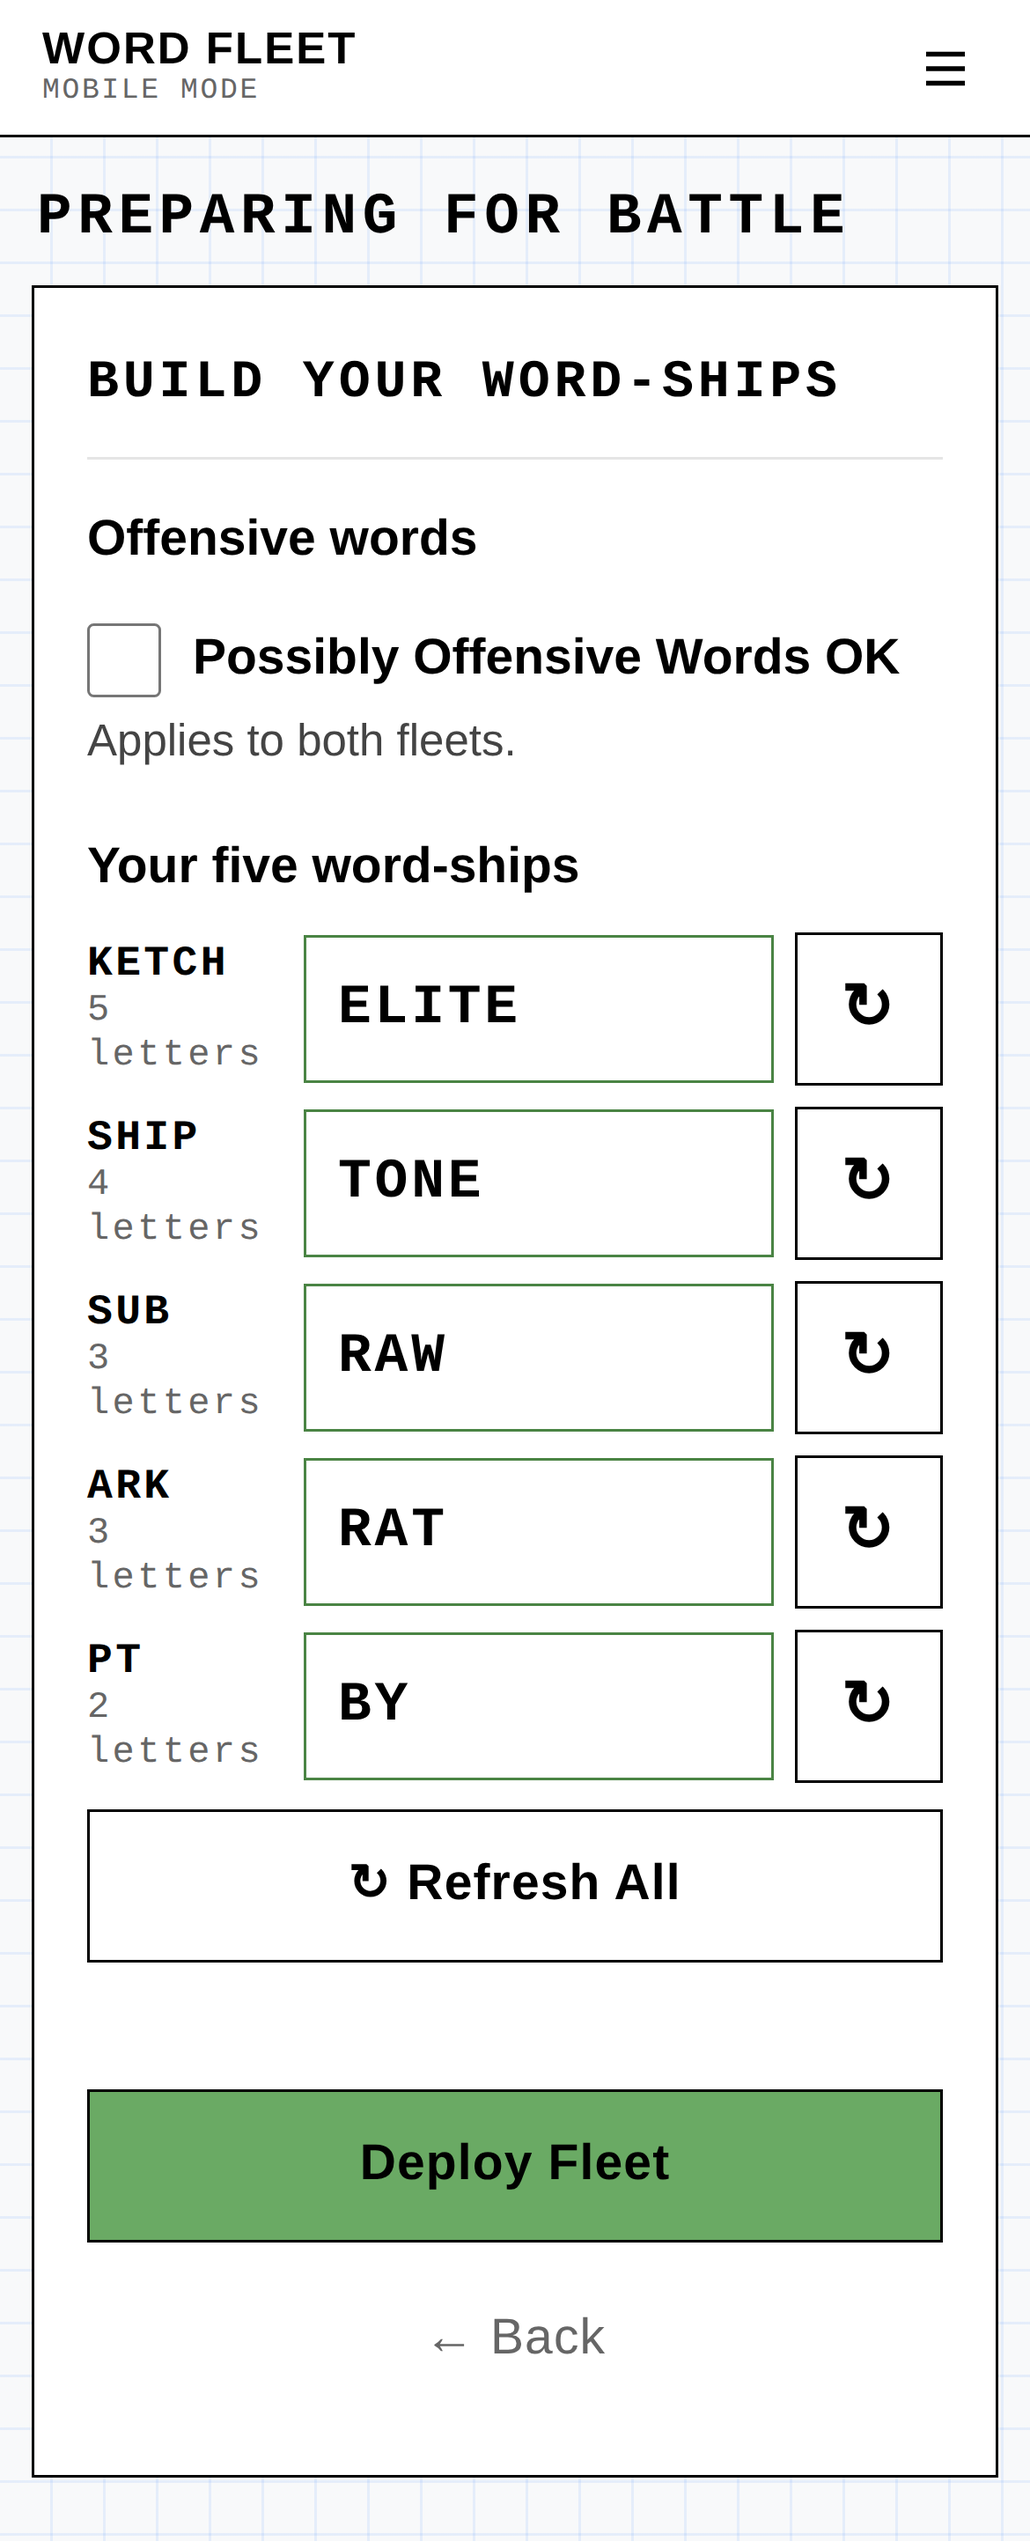
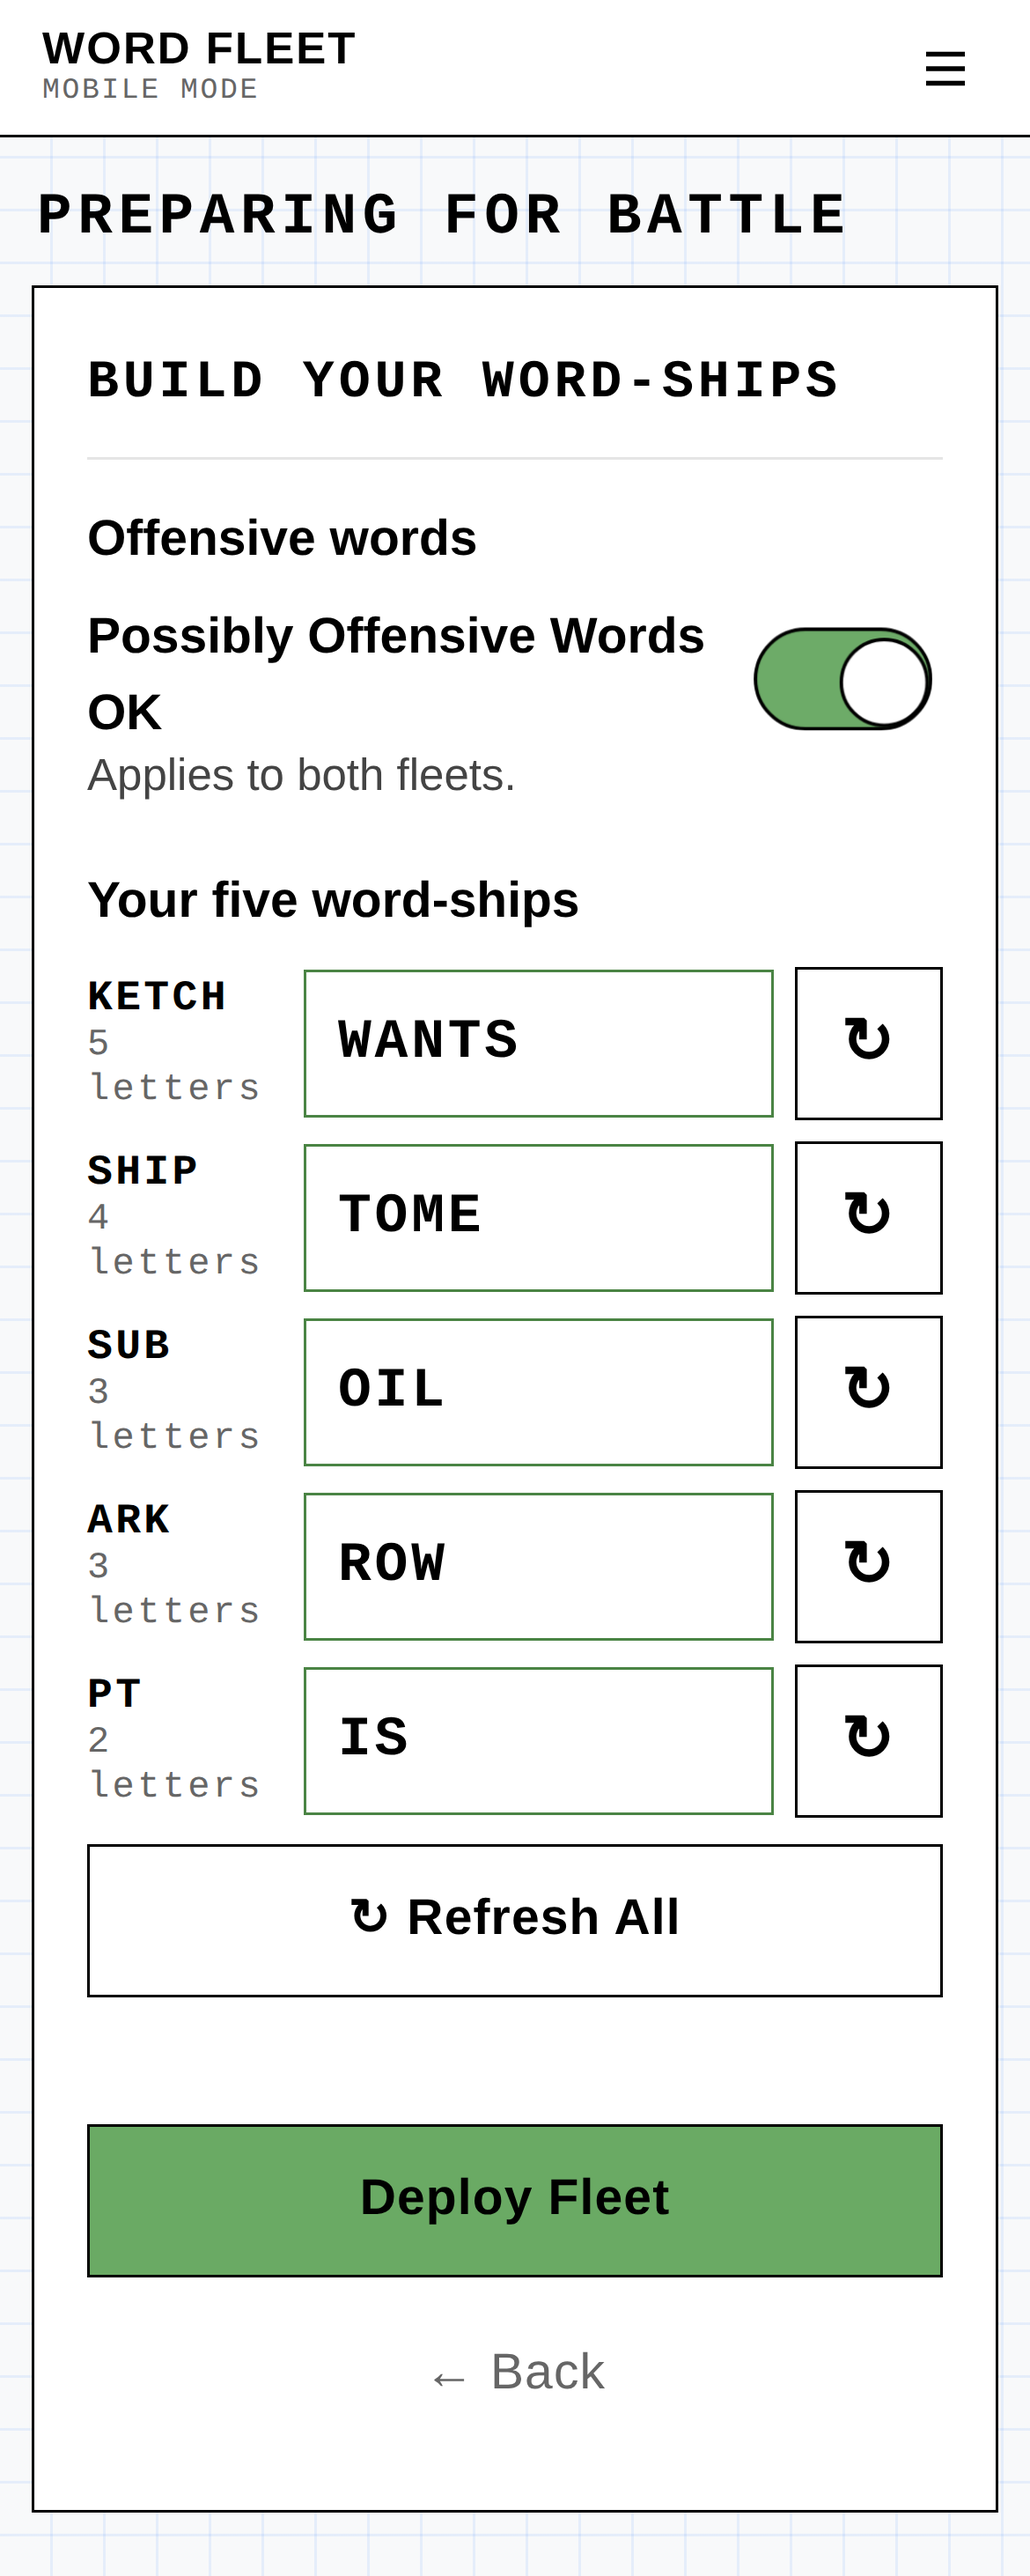
003: Possibly Offensive Words OK is an on/off switch
Claude-Session: https://claude.ai/code/session_013sUGAAEC45a1EJCrQWVj9Q

diff --git a/mobile/index.html b/mobile/index.html
@@ -18,7 +18,7 @@
   <link rel="preconnect" href="https://fonts.gstatic.com" crossorigin>
   <link href="https://fonts.googleapis.com/css2?family=Courier+Prime:wght@400;700&family=Inter:wght@400;500;600;700&display=swap" rel="stylesheet">
   <!-- Bump ?v= on every release (and CACHE in sw.js) so a new page never runs old code. -->
-  <link rel="stylesheet" href="app.css?v=45">
+  <link rel="stylesheet" href="app.css?v=46">
 </head>
 <body>
 
@@ -94,7 +94,7 @@
     <div class="card">
       <div class="card-title">Build Your Word-Ships</div>
       <span class="label label--say">Offensive words</span>
-      <label class="check check--top"><input type="checkbox" id="chkOffensive"> Possibly Offensive Words OK</label>
+      <label class="switch-row switch-row--big"><span>Possibly Offensive Words OK</span><input type="checkbox" class="switch" id="chkOffensive" role="switch"></label>
       <p class="hint hint--tight">Applies to both fleets.</p>
 
       <span class="label label--say">Your five word-ships</span>
@@ -217,7 +217,7 @@
 
 <div class="toast" id="toast" hidden></div>
 
-<script src="audio.js?v=45"></script>
-<script src="app.js?v=45"></script>
+<script src="audio.js?v=46"></script>
+<script src="app.js?v=46"></script>
 </body>
 </html>

diff --git a/mobile/app.css b/mobile/app.css
@@ -432,3 +432,7 @@ button.mf { font: inherit; color: var(--ink); width: 100%; padding: 3px 0 2px; c
 .page-head { font-family: var(--mono); font-size: 22px; font-weight: 700; letter-spacing: 0.1em; text-transform: uppercase; line-height: 1.2; margin: 6px 2px 12px; color: var(--ink); }
 .setup-big .card-title { font-size: 20px; }
 .setup-big .label--say:first-of-type, .setup-big .card-title + .label--say { margin-top: 0; }
+
+/* Big on/off switch on 003 (Possibly Offensive Words OK) */
+.switch-row--big { font-size: 19px; font-weight: 700; gap: 16px; min-height: 56px; }
+.switch-row--big .switch { transform: scale(1.3); transform-origin: right center; margin-right: 4px; }

diff --git a/mobile/sw.js b/mobile/sw.js
@@ -1,11 +1,11 @@
 /* Word Fleet service worker: the whole game works offline once loaded. */
-var CACHE = 'wordfleet-v45';
+var CACHE = 'wordfleet-v46';
 var SHELL = [
   './',
   'index.html',
-  'app.css?v=45',
-  'app.js?v=45',
-  'audio.js?v=45',
+  'app.css?v=46',
+  'app.js?v=46',
+  'audio.js?v=46',
   'manifest.webmanifest',
   'icons/icon-180.png',
   'icons/icon-192.png',

diff --git a/mobile/screens/README.md b/mobile/screens/README.md
@@ -10,5 +10,5 @@ referred to by name when asking for changes. Each has a reference snapshot in th
 | **MOBILE-HOME** *(parked)* | `<section id="scrMobileHome" data-screen="MOBILE-HOME">`, `SCREENS.home` | `mobile-home.png` | **Parked, not shown to players.** Kept for later use. Was the first screen: WORD FLEET title, Mobile Mode tag, blurb, New Battle and Rules of Engagement buttons. The app now opens on 001-MOBILE-PREPARE. |
 | **001-MOBILE-PREPARE** | `<section id="scrSetup" data-screen="001-MOBILE-PREPARE">`, `SCREENS.setup` | `001-mobile-prepare.png` | **First screen players see.** Card title "Welcome Captain!". "Choose your language", then "Roll the die or type your own fleet name" (with dice). Changing language rolls a new fleet name in that language (`dictionaries/fleet-names.json`). Button "NEXT | STEP 2 OF 3 | CHOOSE YOUR OPPONENT". "← Back" goes to the Word Fleet home page (`../`, the site's `index.html`). Screens 001-003 share one look: a "PREPARING FOR BATTLE" page header above the card (`.page-head`), the step's card title, plain-language section headers (`.label--say`), and large, easy-to-read text (`.setup-big`). |
 | **002-MOBILE-OPPONENT** | `<section id="scrOpponent" data-screen="002-MOBILE-OPPONENT">`, `SCREENS.opponent` | `002-mobile-opponent.png` | Card title "Choose Your Opponent", section "Pick the AI Captain you'll face": the three AI Captains (Captain Rubber Duck, Captain Steady, Captain Lexicon), each with a short character sketch. Button "NEXT | STEP 3 OF 3 | BUILD YOUR WORD-SHIPS". |
-| **003-MOBILE-WORD-SHIPS** | `<section id="scrWords" data-screen="003-MOBILE-WORD-SHIPS">`, `SCREENS.words` | `003-mobile-word-ships.png` | Card title "Build Your Word-Ships". Section "Offensive words": Possibly Offensive Words OK, "Applies to both fleets." Section "Your five word-ships": the five word-ships arrive drawn for your opponent and are editable, each with a ↻ redraw; Refresh All; Deploy Fleet checks every word against the dictionary. |
+| **003-MOBILE-WORD-SHIPS** | `<section id="scrWords" data-screen="003-MOBILE-WORD-SHIPS">`, `SCREENS.words` | `003-mobile-word-ships.png` | Card title "Build Your Word-Ships". Section "Offensive words": a "Possibly Offensive Words OK" on/off switch, "Applies to both fleets." Section "Your five word-ships": the five word-ships arrive drawn for your opponent and are editable, each with a ↻ redraw; Refresh All; Deploy Fleet checks every word against the dictionary. |
 | **004-MOBILE-DEPLOY** | `<section id="scrDeploy" data-screen="004-MOBILE-DEPLOY">`, `SCREENS.deploy` | `004-mobile-deploy.png`, `004-mobile-deploy-placed.png` | Place the five word-ships on your Defense Grid: Across/Down, Scatter, Clear, the roster of ships, Confirm Deployment, Change Words. Drag a ship to move it; double-tap its first letter to turn it. |
